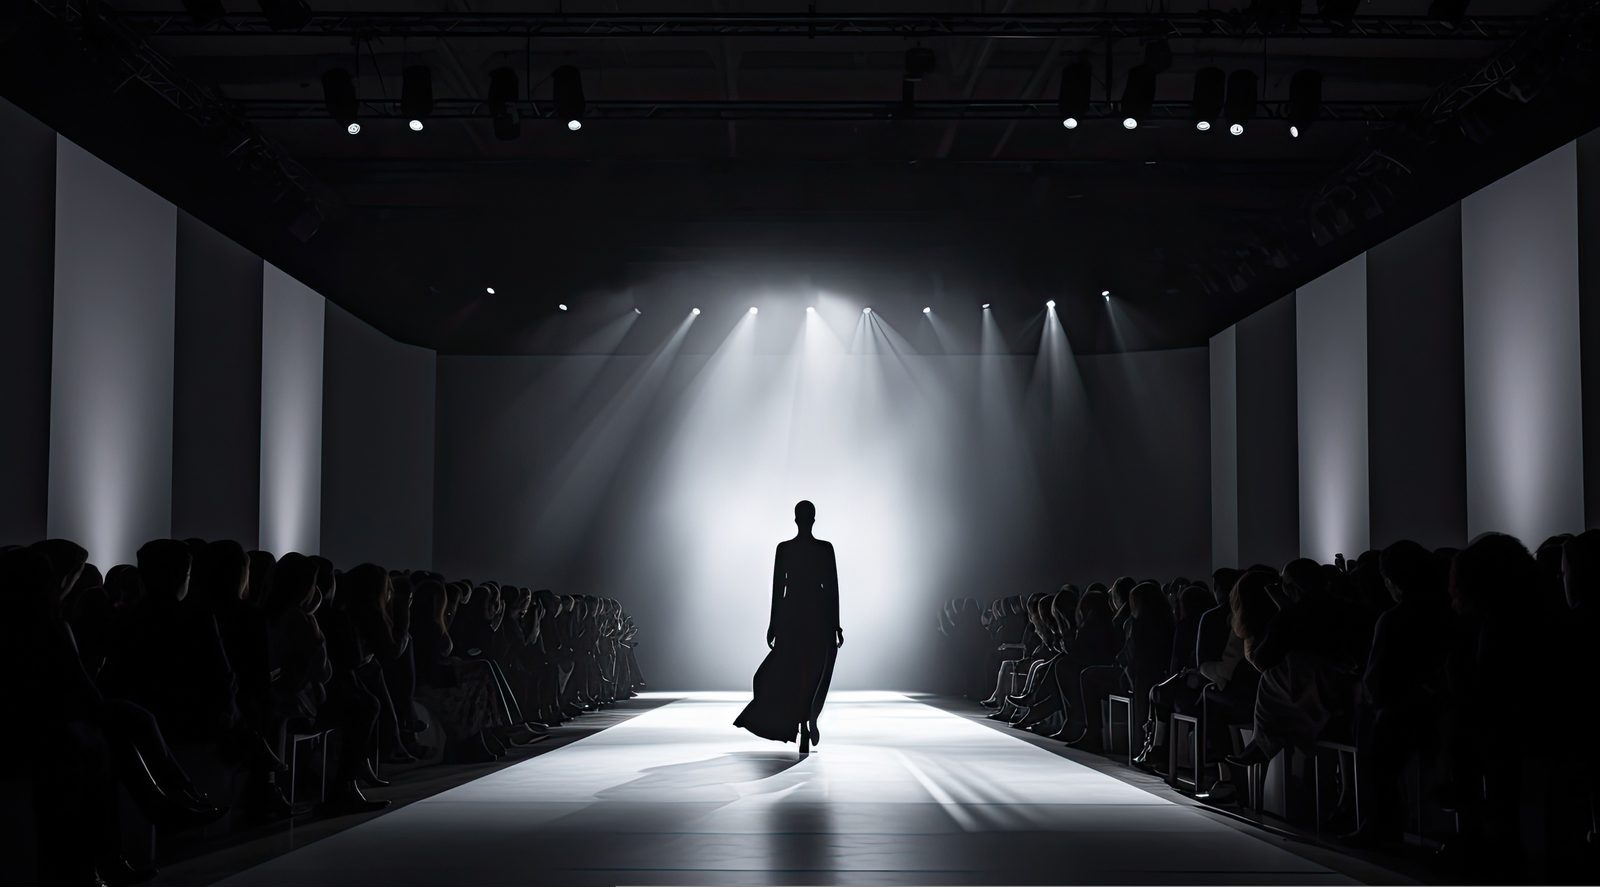
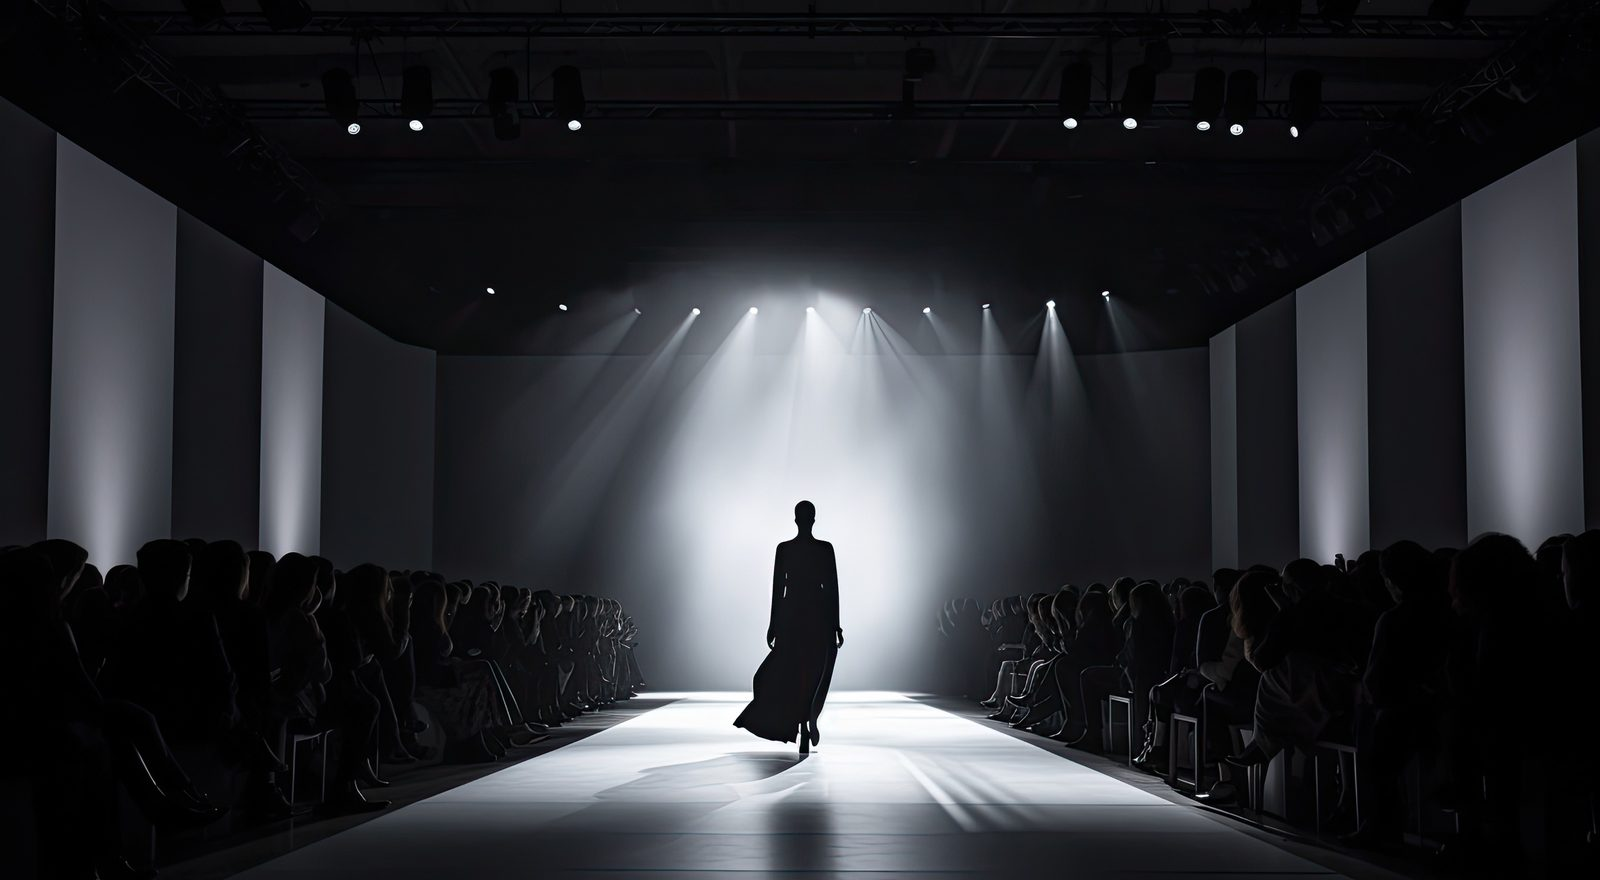
Use hands visual for organization service, remove dot backdrops on new photos
Claude-Session: https://claude.ai/code/session_0118MPF54EN1odyKhaBA8mef

diff --git a/concept.html b/concept.html
@@ -88,7 +88,7 @@ header.site .gnav a::after{background:#FFFFFF !important}
 <div style="flex: 1 1 240px">
 <p class="eyebrow" style="margin: 0; font-size: 12px; font-weight: 700; letter-spacing: 0.32em; color: #5A5A5A">PHILOSOPHY</p>
 <h2 style="margin: 16px 0 0; font-family: 'Shippori Mincho', serif; font-weight: 500; font-size: 28px; line-height: 1.6">企業理念</h2>
-<div class="photo" style="margin: 32px 22px 22px 0"><div style="position: relative; z-index: 1; overflow: hidden; background: #EEEEEA"><img alt="スポットライトを浴びてランウェイを歩くシルエット" loading="lazy" src="assets/runway.jpg" style="display: block; width: 100%; aspect-ratio: 4 / 3; height: auto; object-fit: cover; object-position: center 62%"/></div></div>
+<div style="margin-top: 32px"><div style="position: relative; z-index: 1; overflow: hidden; background: #EEEEEA"><img alt="スポットライトを浴びてランウェイを歩くシルエット" loading="lazy" src="assets/runway.jpg" style="display: block; width: 100%; aspect-ratio: 4 / 3; height: auto; object-fit: cover; object-position: center 62%"/></div></div>
 </div>
 <div style="flex: 999 1 520px; min-width: 0; font-size: 15px; line-height: 2.1; display: flex; flex-direction: column; gap: 20px">
 <p style="margin: 0; font-family: 'Shippori Mincho', serif; font-size: clamp(19px, 5vw, 22px); line-height: 1.9"><span style="display: inline-block">DOTをつなぎ、</span><span style="display: inline-block">未知なる道を創る</span></p>
@@ -125,7 +125,7 @@ header.site .gnav a::after{background:#FFFFFF !important}
 <div style="flex: 1 1 240px">
 <p class="eyebrow" style="margin: 0; font-size: 12px; font-weight: 700; letter-spacing: 0.32em; color: #5A5A5A">APPROACH</p>
 <h2 style="margin: 16px 0 0; font-family: 'Shippori Mincho', serif; font-weight: 500; font-size: 28px; line-height: 1.6">伴走型の<br/>価値づくり</h2>
-<div class="photo" style="margin: 32px 22px 22px 0"><div style="position: relative; z-index: 1; overflow: hidden; background: #EEEEEA"><img alt="辞書に載った「Branding」の文字" loading="lazy" src="assets/branding.jpg" style="display: block; width: 100%; aspect-ratio: 4 / 3; height: auto; object-fit: cover; object-position: 30% center"/></div></div>
+<div style="margin-top: 32px"><div style="position: relative; z-index: 1; overflow: hidden; background: #EEEEEA"><img alt="辞書に載った「Branding」の文字" loading="lazy" src="assets/branding.jpg" style="display: block; width: 100%; aspect-ratio: 4 / 3; height: auto; object-fit: cover; object-position: 30% center"/></div></div>
 </div>
 <div style="flex: 999 1 520px; min-width: 0; font-size: 15px; line-height: 2.1; display: flex; flex-direction: column; gap: 20px">
 <p style="margin: 0">効率的なマーケティング運用はできても、持続的な成長につながる新しい価値を生み出せる人材が社内にいない。そんなご相談を多くいただきます。</p>
@@ -158,7 +158,7 @@ header.site .gnav a::after{background:#FFFFFF !important}
 </div>
 </article>
 <article style="border-top: 2px solid #111111; padding-top: 28px">
-<div style="overflow: hidden; background: #EEEEEA; margin-bottom: 28px"><img alt="重ねて開かれた楽譜" loading="lazy" src="assets/score.jpg" style="display: block; width: 100%; aspect-ratio: 3 / 2; height: auto; object-fit: cover; object-position: center"/></div>
+<div style="overflow: hidden; background: #EEEEEA; margin-bottom: 28px"><img alt="ハートを囲んで重なり合う手" loading="lazy" src="assets/hands.jpg" style="display: block; width: 100%; aspect-ratio: 3 / 2; height: auto; object-fit: cover; object-position: center"/></div>
 <p class="eyebrow" style="margin: 0; font-size: 12px; font-weight: 700; letter-spacing: 0.32em; color: #5A5A5A">03 — ORGANIZATION</p>
 <h3 style="margin: 12px 0 0; font-family: 'Shippori Mincho', serif; font-weight: 500; font-size: 24px; line-height: 1.6"><span style="display: inline-block">ブランドで成長する</span><span style="display: inline-block">組織をつくる</span></h3>
 <div style="margin-top: 18px; font-size: 15px; line-height: 2.1; display: flex; flex-direction: column; gap: 14px">
@@ -170,7 +170,7 @@ header.site .gnav a::after{background:#FFFFFF !important}
 </section>
 <section style="max-width: 1280px; margin: 0 auto; padding: 0 24px 112px">
 <div style="display: flex; flex-wrap: wrap; align-items: center; gap: 48px 64px">
-<div class="photo th" style="flex: 1 1 300px; max-width: 460px; margin: 0 22px 22px 0"><div style="position: relative; z-index: 1; overflow: hidden; background: #EEEEEA"><img alt="窓辺で考え込むドット柄ブラウスの女性" loading="lazy" src="assets/thinking.jpg" style="display: block; width: 100%; aspect-ratio: 4 / 5; height: auto; object-fit: cover; object-position: 64% center"/></div></div>
+<div class="th" style="flex: 1 1 300px; max-width: 460px"><div style="position: relative; z-index: 1; overflow: hidden; background: #EEEEEA"><img alt="窓辺で考え込むドット柄ブラウスの女性" loading="lazy" src="assets/thinking.jpg" style="display: block; width: 100%; aspect-ratio: 4 / 5; height: auto; object-fit: cover; object-position: 64% center"/></div></div>
 <div style="flex: 1.5 1 420px; min-width: 0">
 <h2 style="margin: 0; font-family: 'Shippori Mincho', serif; font-weight: 500; font-size: 26px; line-height: 1.6"><span><span class="w">こんな</span><span class="w">事業主さまに</span></span></h2>
 <ul style="margin: 32px 0 0; padding: 0; list-style: none; display: grid; grid-template-columns: repeat(auto-fit, minmax(260px, 1fr)); gap: 0 32px; border-top: 1px solid #DDDDD8">

diff --git a/index.html b/index.html
@@ -243,7 +243,7 @@ header.site .gnav a::after{background:#FFFFFF !important}
 <div style="flex: 1 1 240px">
 <p class="eyebrow" style="margin: 0; font-size: 12px; font-weight: 700; letter-spacing: 0.32em; color: #5A5A5A">PHILOSOPHY</p>
 <h2 style="margin: 16px 0 0; font-family: 'Shippori Mincho', serif; font-weight: 500; font-size: 32px; line-height: 1.6">企業理念</h2>
-<div class="photo" style="margin: 32px 22px 22px 0"><div style="position: relative; z-index: 1; overflow: hidden; background: #EEEEEA"><img alt="スポットライトを浴びてランウェイを歩くシルエット" loading="lazy" src="assets/runway.jpg" style="display: block; width: 100%; aspect-ratio: 4 / 3; height: auto; object-fit: cover; object-position: center 62%"/></div></div>
+<div style="margin-top: 32px"><div style="position: relative; z-index: 1; overflow: hidden; background: #EEEEEA"><img alt="スポットライトを浴びてランウェイを歩くシルエット" loading="lazy" src="assets/runway.jpg" style="display: block; width: 100%; aspect-ratio: 4 / 3; height: auto; object-fit: cover; object-position: center 62%"/></div></div>
 </div>
 <div style="flex: 999 1 520px; min-width: 0; font-size: 15px; line-height: 2; display: flex; flex-direction: column; gap: 20px">
 <p style="margin: 0; font-family: 'Shippori Mincho', serif; font-size: clamp(21px, 5.6vw, 26px); line-height: 1.7; letter-spacing: 0.08em"><span style="display: inline-block">DOTをつなぎ、</span><span style="display: inline-block">未知なる道を創る</span></p>
